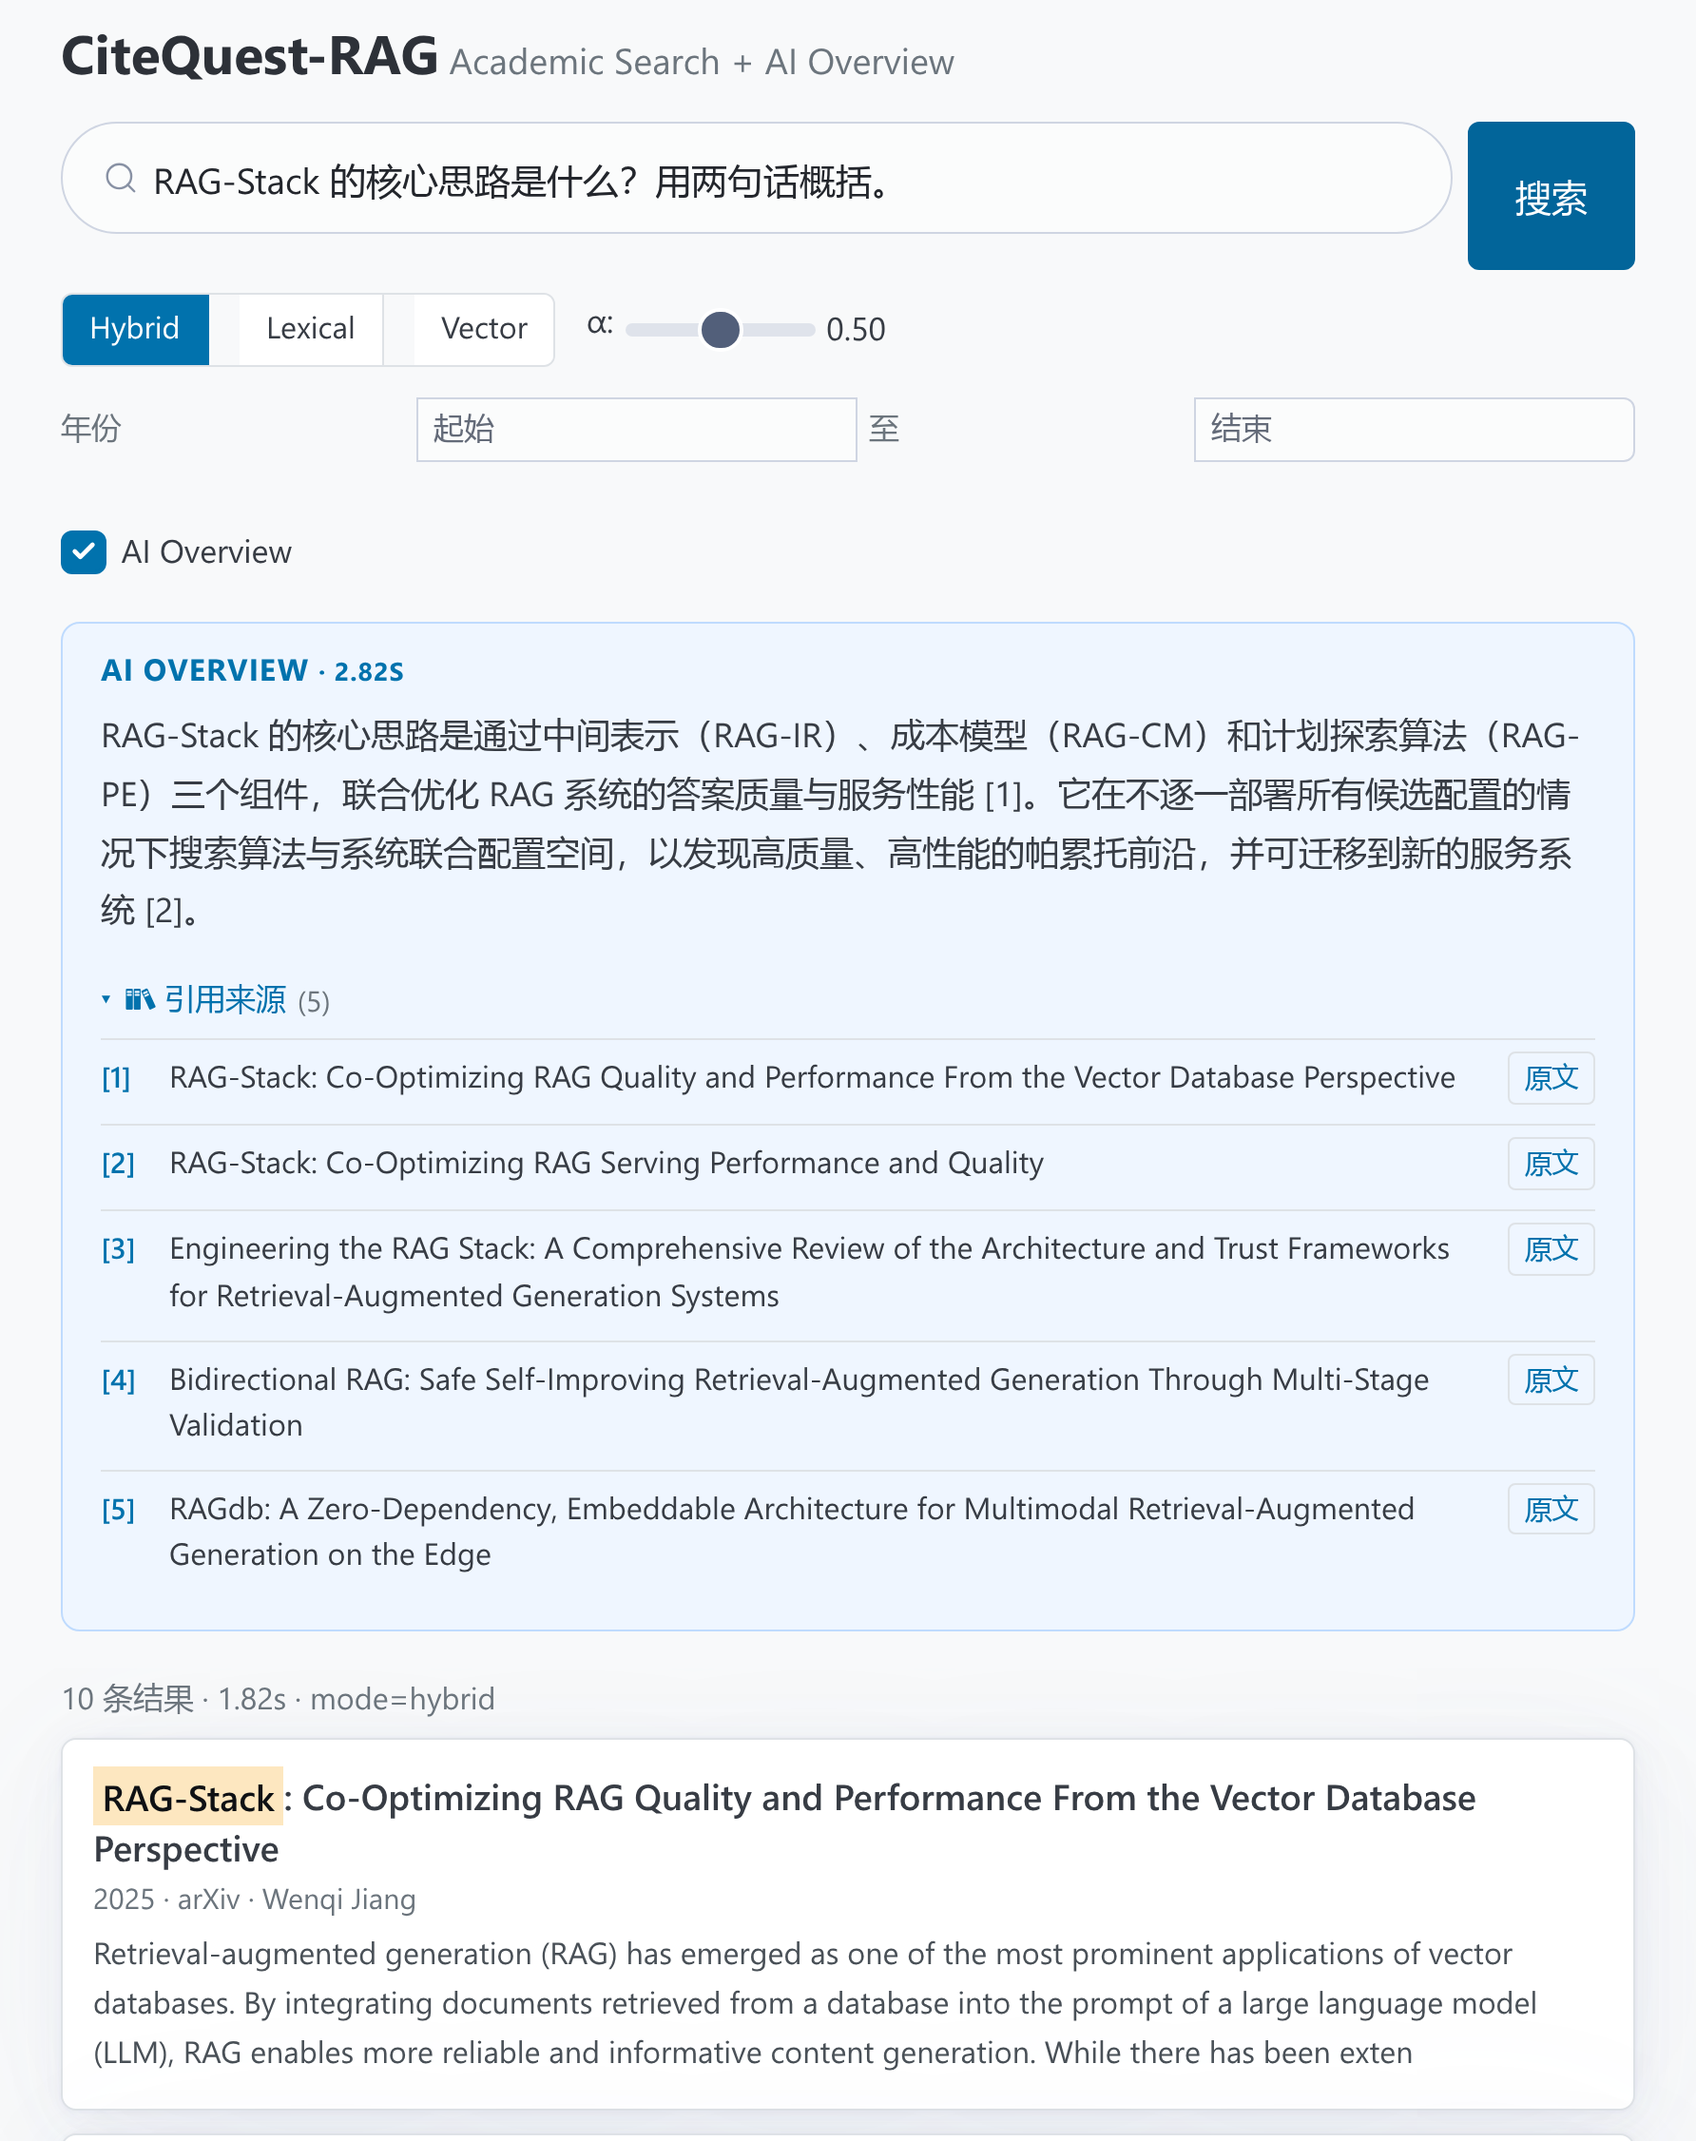
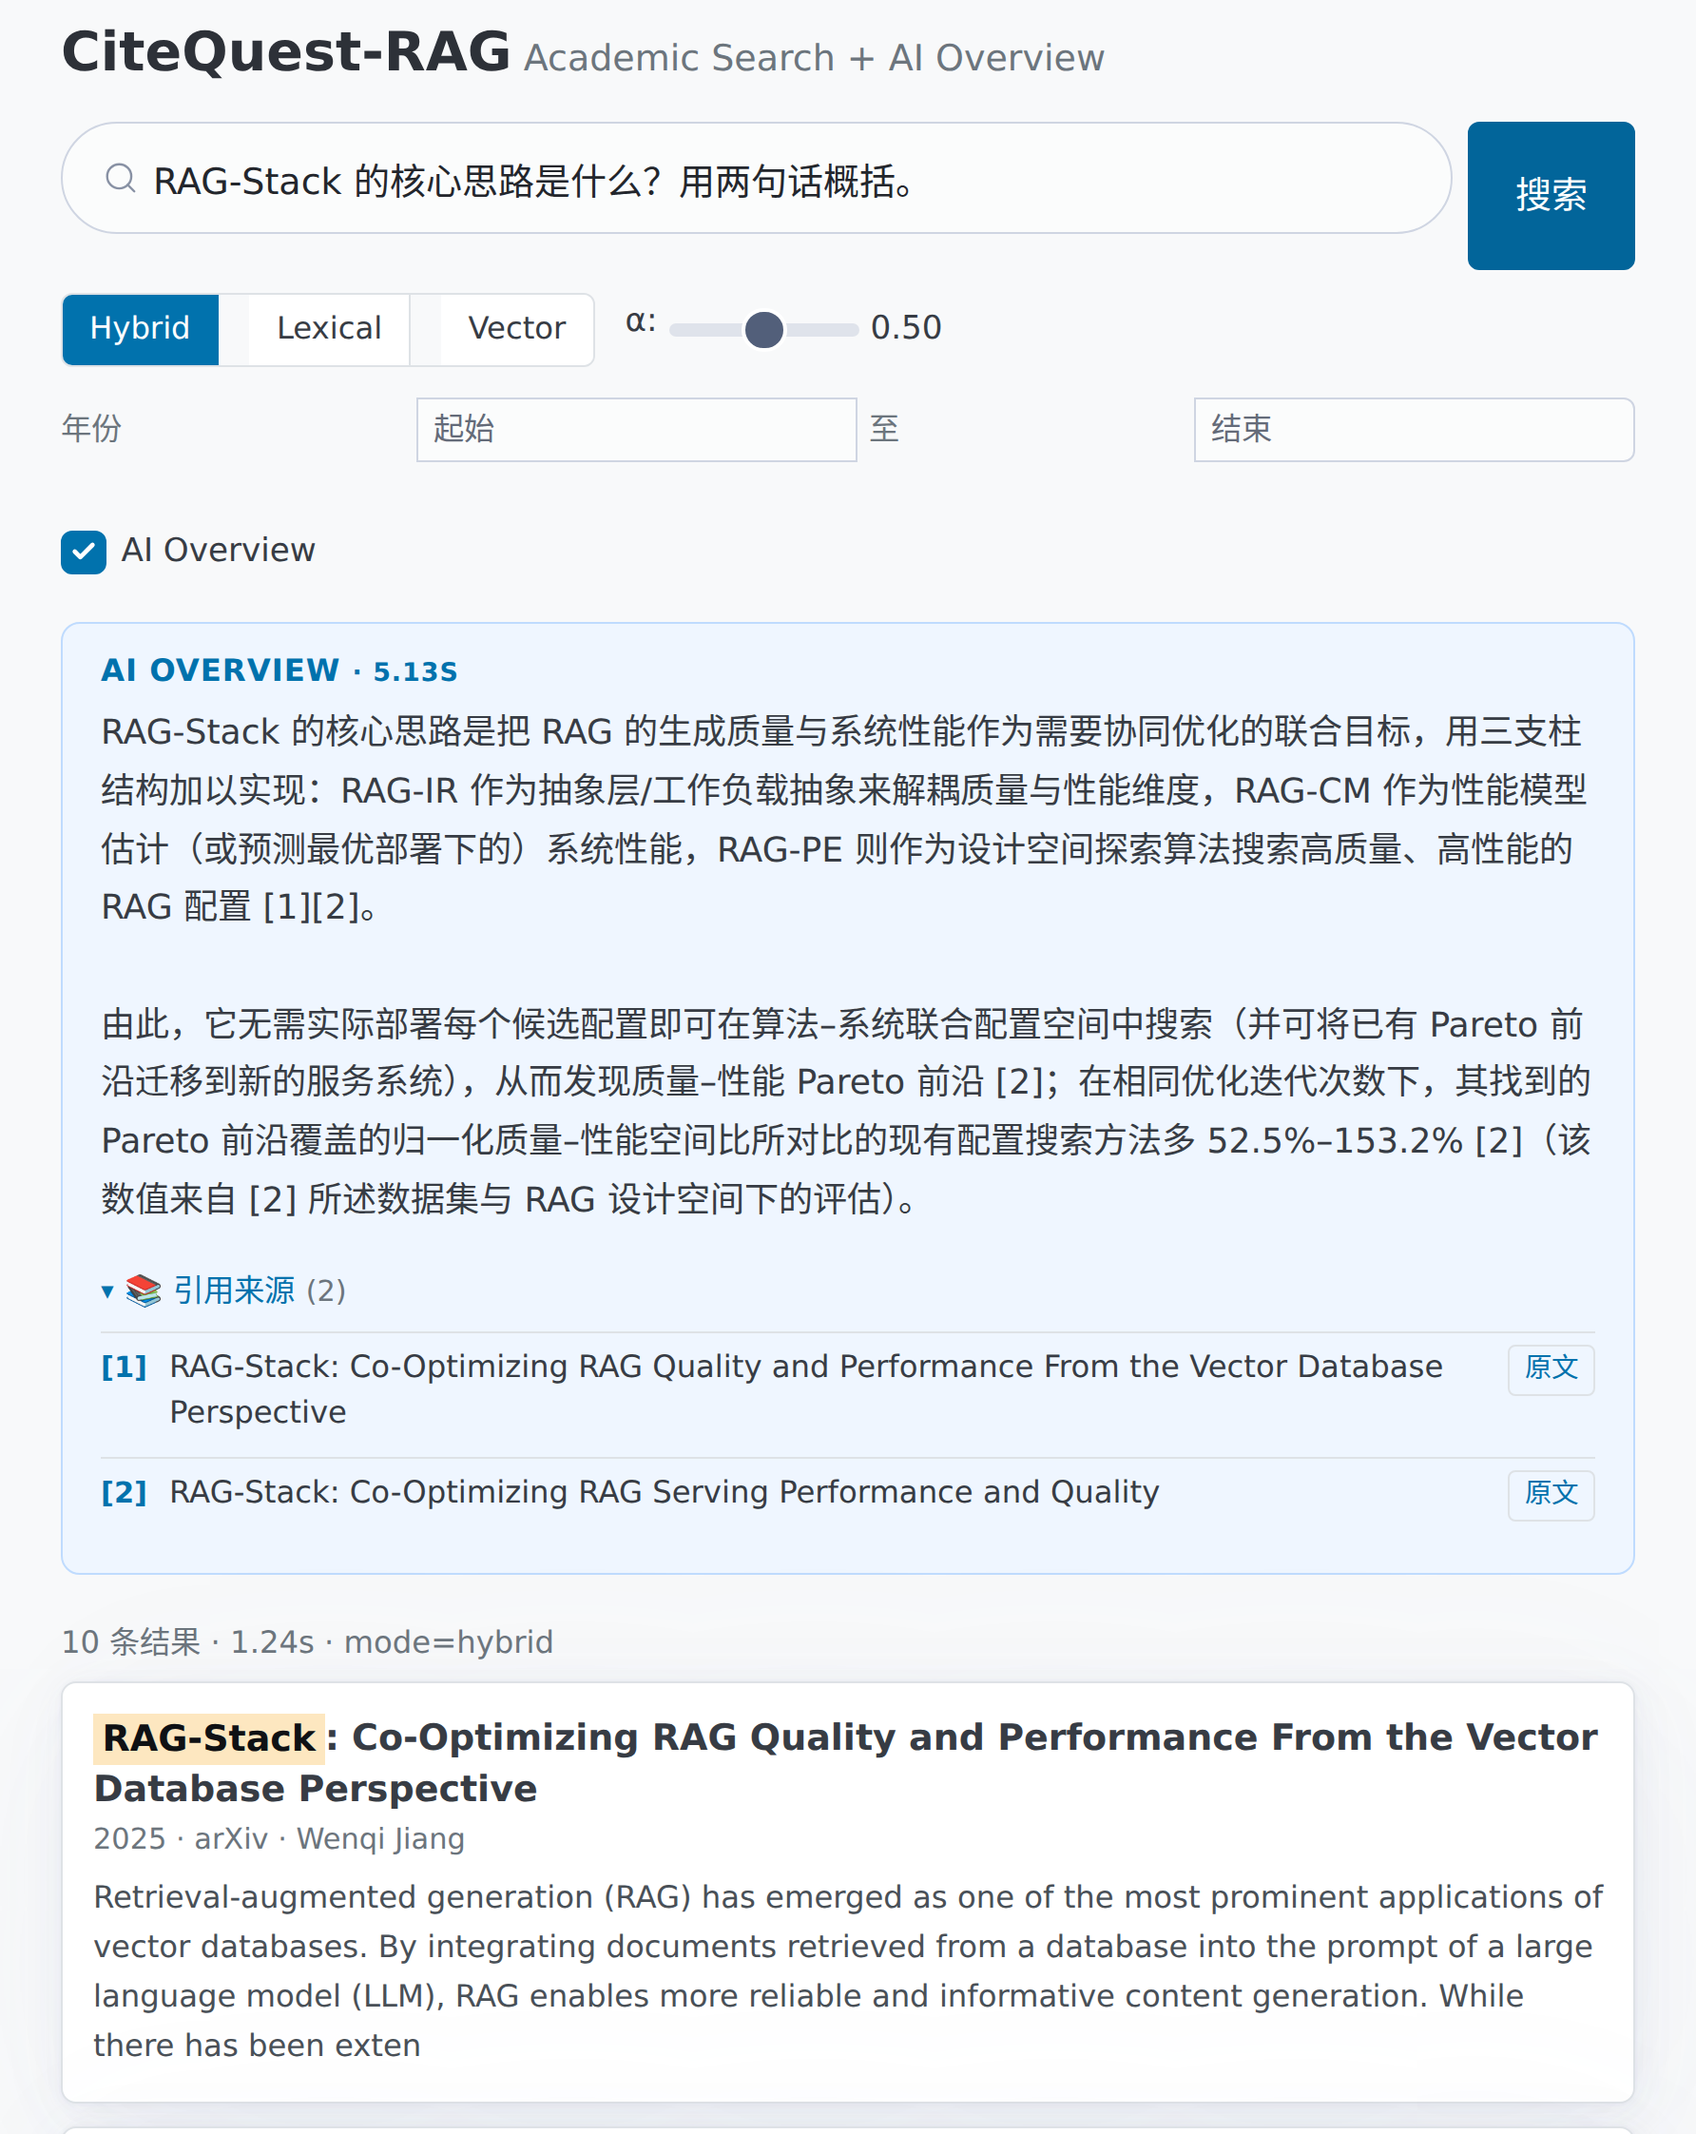
fronted cite bug fix

diff --git a/frontend/index.html b/frontend/index.html
@@ -135,17 +135,17 @@
       </template>
 
       <!-- Citation list (collapsible) -->
-      <div class="citation-section" x-show="overview?.citations?.length">
+      <div class="citation-section" x-show="citedSources.length">
         <button class="citation-toggle"
                 @click="showCitations = !showCitations"
                 :aria-expanded="showCitations">
           <span class="citation-arrow" :class="{ 'is-open': showCitations }">▸</span>
           📚 引用来源
-          <span class="citation-count" x-text="'(' + (overview?.citations?.length || 0) + ')'"></span>
+          <span class="citation-count" x-text="'(' + citedSources.length + ')'"></span>
         </button>
 
         <ol class="citation-list" x-show="showCitations" x-transition>
-          <template x-for="c in overview?.citations || []" :key="c.citation_id">
+          <template x-for="c in citedSources" :key="c.citation_id">
             <li class="citation-item">
               <span class="citation-id" x-text="'[' + c.citation_id + ']'"></span>
               <span class="citation-title" x-text="c.title"></span>
@@ -231,6 +231,14 @@
 
       // Citation toggle
       showCitations: true,
+
+      get citedSources() {
+        const citedIds = new Set(
+          [...(this.overview?.answer || "").matchAll(/\[(\d+)\]/g)]
+            .map(match => Number(match[1]))
+        );
+        return (this.overview?.citations || []).filter(c => citedIds.has(c.citation_id));
+      },
 
       // Async AI Overview loading (SSE-driven)
       overviewLoading: false,

diff --git a/docs/API_CONTRACT.md b/docs/API_CONTRACT.md
@@ -88,6 +88,8 @@
 
 `url` 允许为 `null`；不会为其他来源的论文拼接 arXiv 链接。`citation_valid` 检查回答中的引用编号是否对应上下文来源，不验证每条论断的语义正确性。无证据的说明响应保留 `citation_valid=true`，同时返回空引用列表。
 
+响应的 `citations` 包含实际纳入上下文的全部证据来源，不要求回答逐一引用。页面的“引用来源”只展示正文中出现 `[N]` 且在该列表中存在的来源，保留原始编号（可能不连续）；正文没有引用时隐藏来源列表。未被引用不等于未传入模型。
+
 ## 流式问答
 
 `POST /ask/stream` 返回 `text/event-stream`。这是阶段通知和完整回答的流式传送，未逐 token 推送模型输出。

diff --git a/README.md b/README.md
@@ -10,7 +10,7 @@
 
 ## 运行效果
 
-搜索结果先返回，AI Overview 随后显示回答和编号引用；展开来源可以查看论文标题并跳转到原文。
+搜索结果先返回，AI Overview 随后显示回答和编号引用；展开来源只显示回答中实际引用的论文，可查看标题并跳转到原文。
 
 ![CiteQuest 引用问答：中文问题、AI 回答、引用来源与论文结果](docs/images/ask-demo.png)
 
